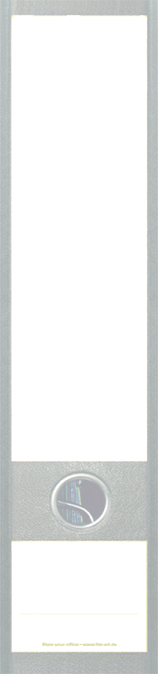
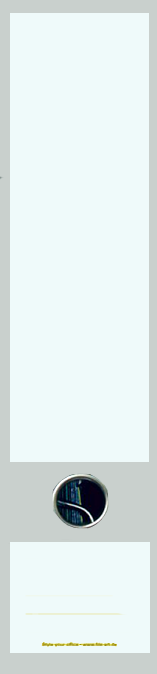
background in popelgrün

diff --git a/src/application/css/anchor.css b/src/application/css/anchor.css
@@ -3,7 +3,7 @@
 	-fx-background-color: #effafa
 }
 #anchorChild{
-	-fx-background-color: #effafa
+	-fx-background-color: #0e7477
 }
 #anchorNewKeyword{
 	-fx-background-color: #effafa
